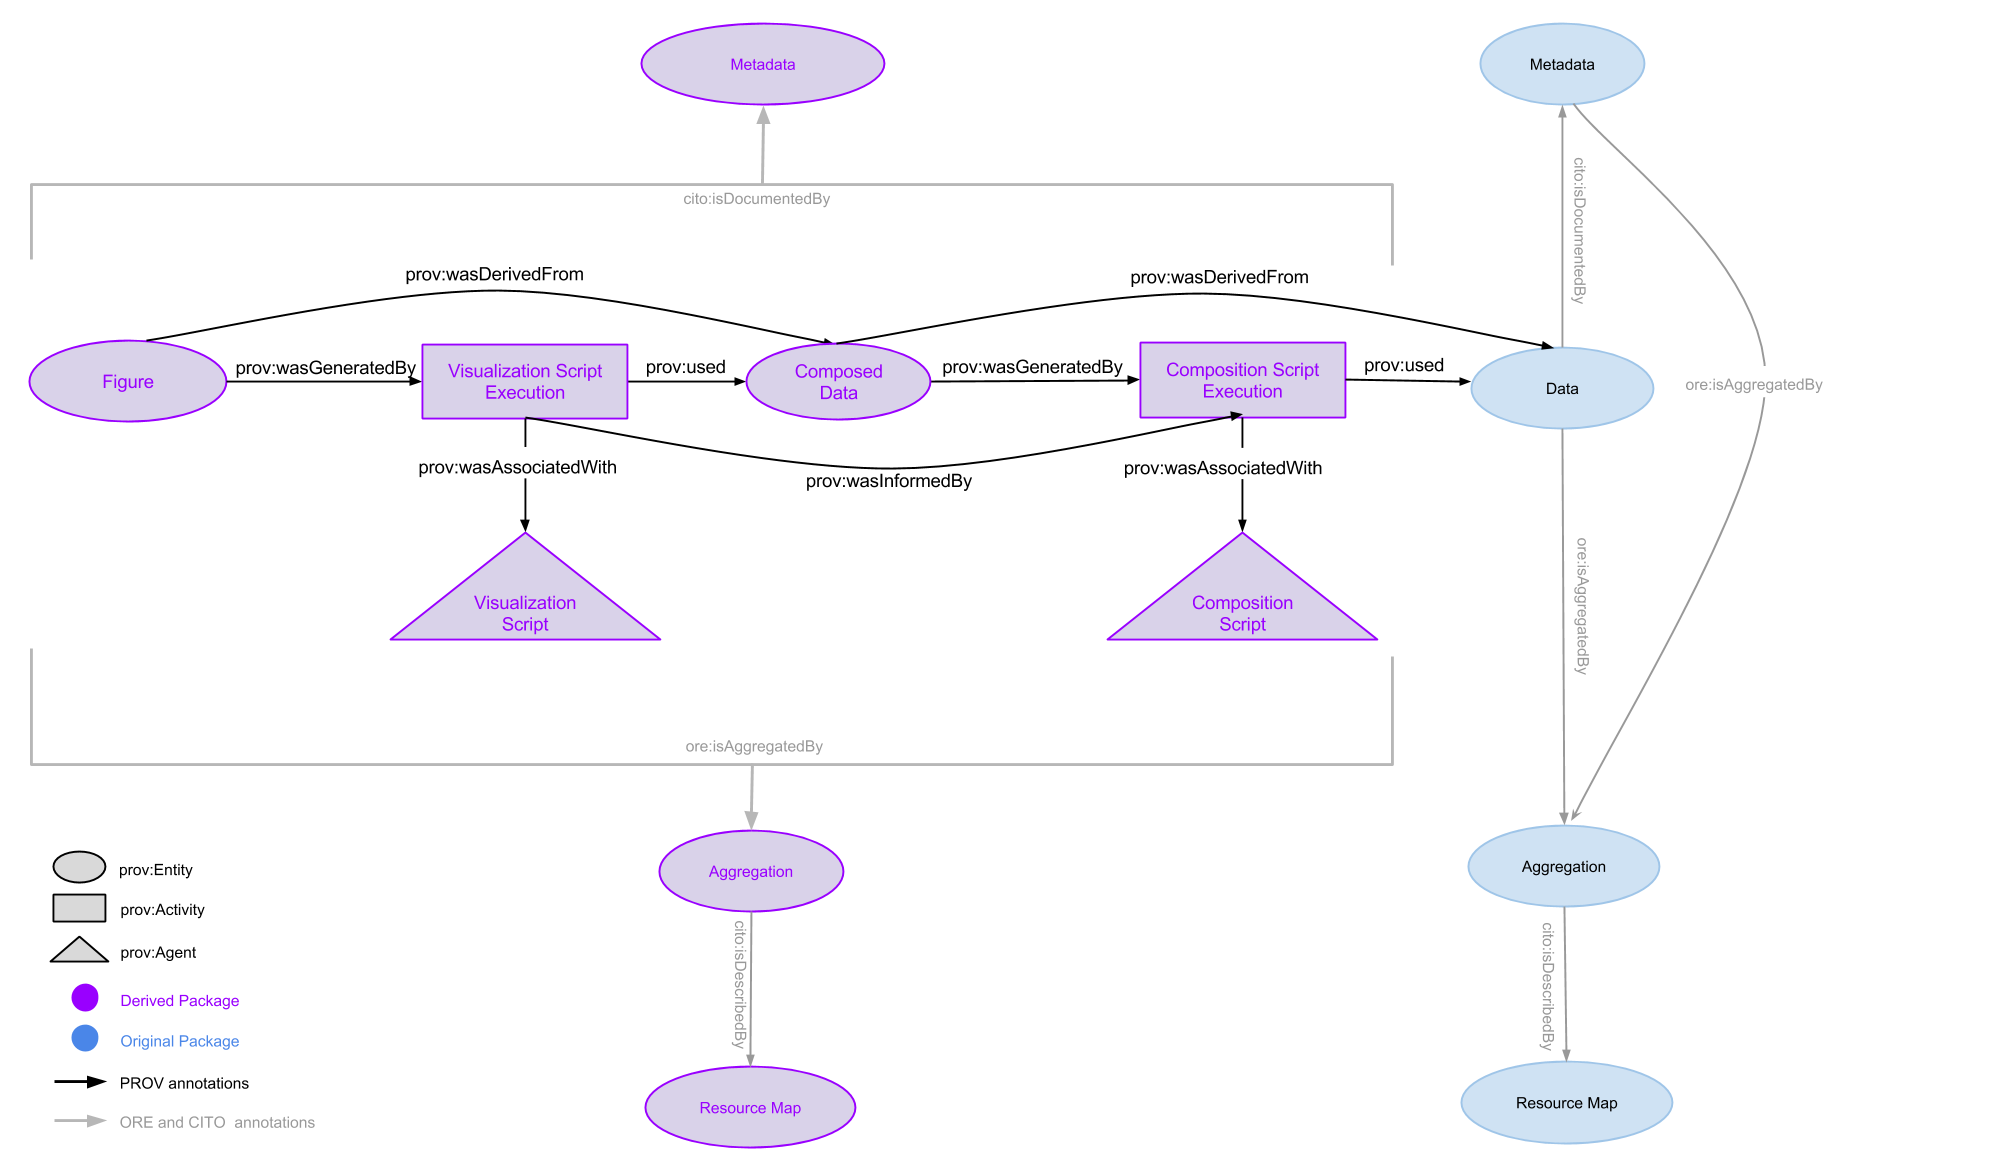
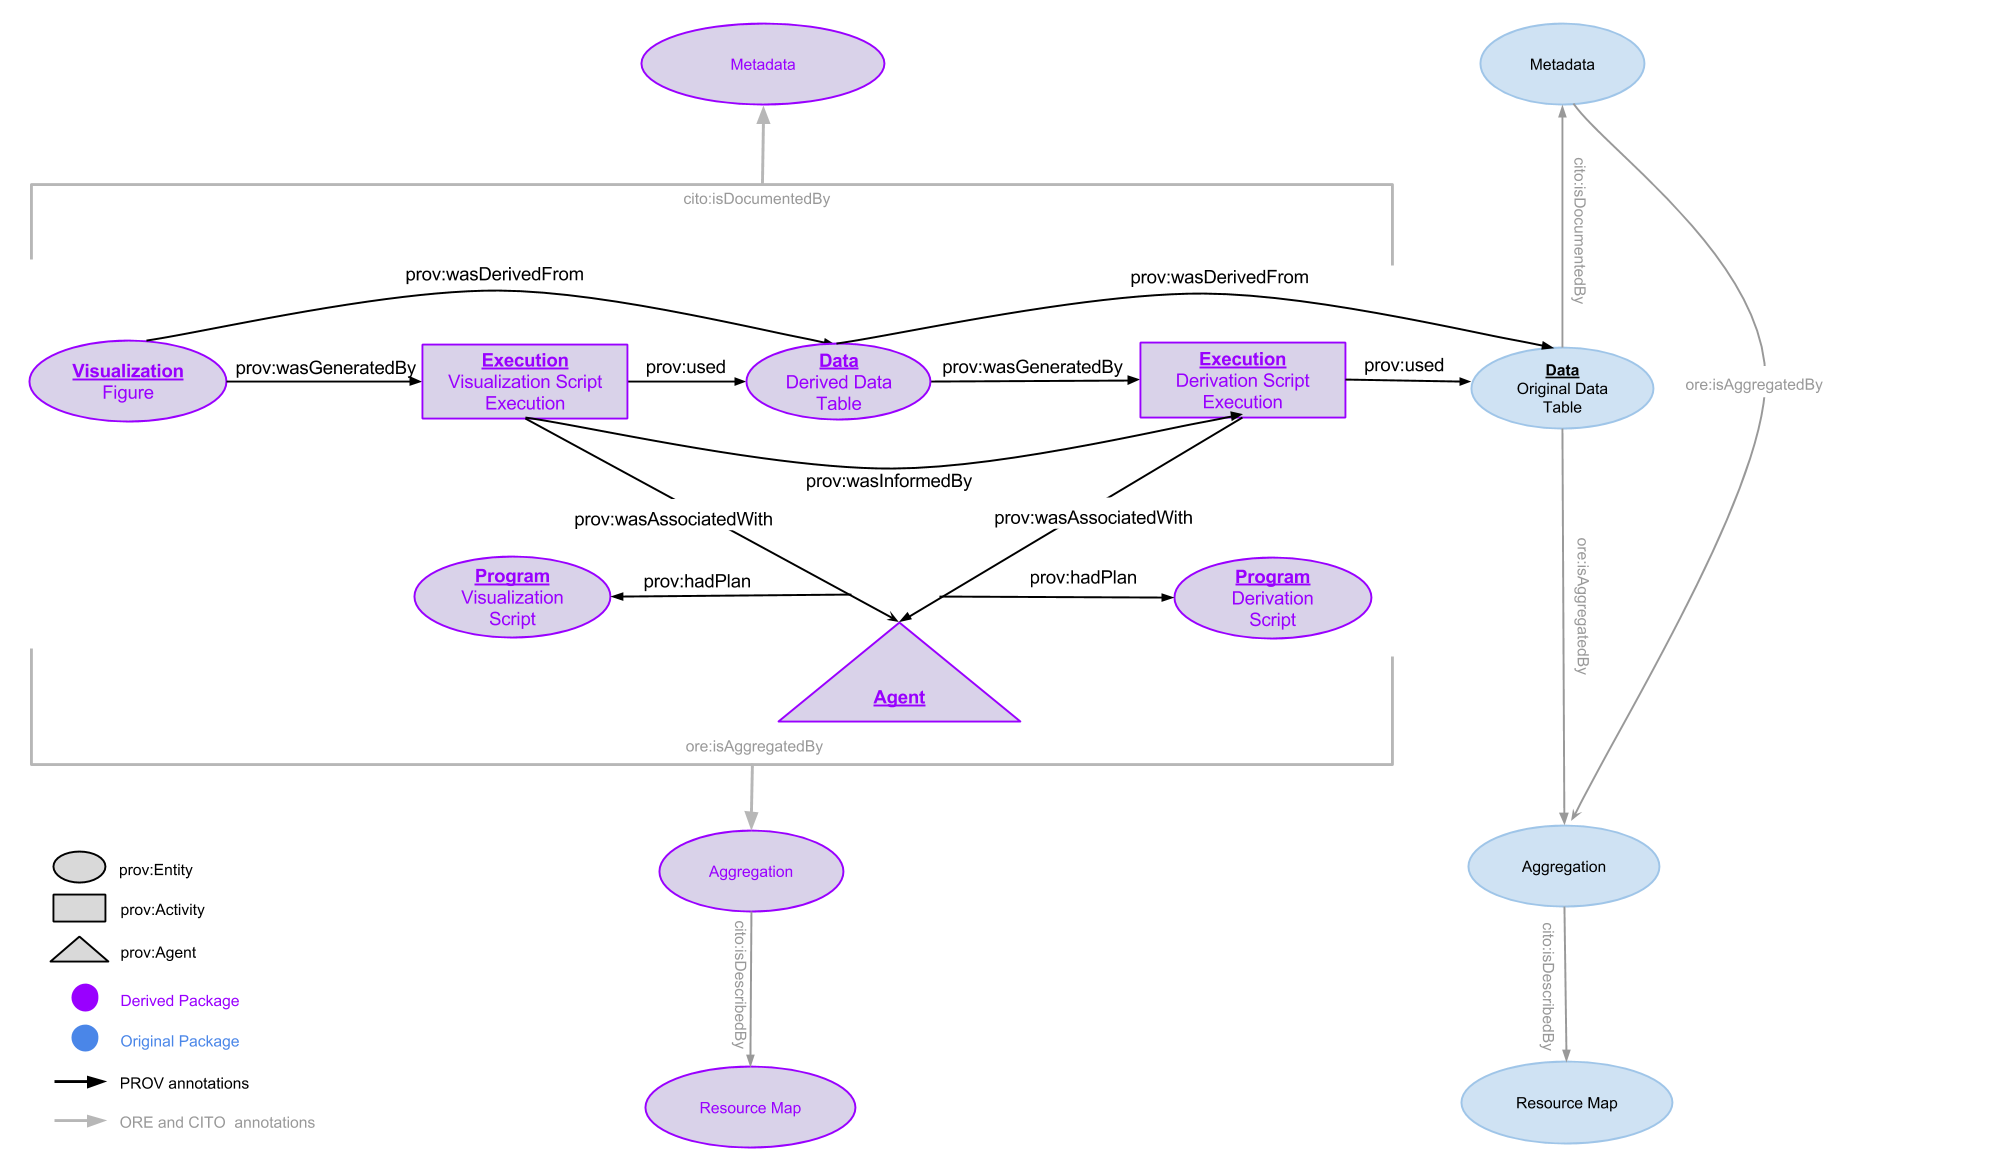
Revised the PROV model document and diagrams to use the prov:hadPlan prov:Association property to point to Programs rather than use the prov:Agent class to point to Programs.

diff --git a/docs/PROV-annotation-model/PROVmodel.md b/docs/PROV-annotation-model/PROVmodel.md
@@ -16,24 +16,33 @@ Definitions
 The DataONE PROV data model will be used to describe the relationships between:
 * Derived resources and the original resources used to create them
 * Data resources and the activities used to create them
-* Programs and the actors that use that program to create a data resource
+* Programs (e.g. software, scripts) that were implemented to create a data resource
 
-This data model borrows heavily from the [W3C PROV Ontology and Data Model](http://www.w3.org/TR/prov-o/) to define classes of objects and the relationships between them. 
+This data model uses the [W3C PROV Ontology and Data Model](http://www.w3.org/TR/prov-o/) to define classes of objects and the relationships between them. 
 
-### Three classes of objects are used in PROV-O and the DataONE PROV model:
+### Two classes and one subclass of objects are used in the DataONE PROV model:
 * [Entity](http://www.w3.org/TR/2013/REC-prov-o-20130430/#Entity)
-	+ PROV-O definition: An entity is a physical, digital, conceptual, or other kind of thing with some fixed aspects; entities may be real or imaginary.
-	+ DataONE: An entity is a [DataONE object](http://mule1.dataone.org/ArchitectureDocs-current/overview.html), such as a data table, or scientific metadata.
+	* PROV-O definition: An entity is a physical, digital, conceptual, or other kind of thing with some fixed aspects; entities may be real or imaginary.
+	* DataONE: An entity is a [DataONE object](http://mule1.dataone.org/ArchitectureDocs-current/overview.html), such as a data table, or scientific metadata.
+	* **Subclass** [Plan](http://www.w3.org/TR/2013/REC-prov-o-20130430/#Plan)
+		* PROV-O definition: A plan is an entity that represents a set of actions or steps intended by one or more agents to achieve some goals.
+			* Note from PROV-O:
+				> Since plans may evolve over time, it may become necessary to track their provenance, so plans themselves are entities. Representing the plan explicitly in the provenance can be useful for various tasks: for example, to validate the execution as represented in the provenance record, to manage expectation failures, or to provide explanations.
+		* DataONE: A plan would most likely be a program, such as a script or code file.
 * [Activity](http://www.w3.org/TR/2013/REC-prov-o-20130430/#Activity)
-	+ PROV-O definition: An activity is something that occurs over a period of time and acts upon or with entities; it may include consuming, processing, transforming, modifying, relocating, using, or generating entities.
-	+ DataONE: An activity represents a program execution and is stored as data about that execution.
-* [Agent](http://www.w3.org/TR/2013/REC-prov-o-20130430/#Agent)
-	+ PROV-O definition: An agent is something that bears some form of responsibility for an activity taking place, for the existence of an entity, or for another agent's activity.
-	+ DataONE: An agent is the program itself, such as a script file.
+	* PROV-O definition: An activity is something that occurs over a period of time and acts upon or with entities; it may include consuming, processing, transforming, modifying, relocating, using, or generating entities.
+	* DataONE: An activity represents a program execution and is stored as data about that execution.
 	
+	
+**Note about [Agent](http://www.w3.org/TR/2013/REC-prov-o-20130430/#Agent): ** 
+	* DataONE may not capture information about agents during the first phase of the semantics and provenance work, but it is one of the major classes of the PROV-O ontology.
+	* PROV-O definition: An agent is something that bears some form of responsibility for an activity taking place, for the existence of an entity, or for another agent's activity.
+
+		
 ### The terms from the PROV ontology that will be used:
-   * [wasGeneratedBy] (http://www.w3.org/ns/prov#wasGeneratedBy) : Generation is the completion of production of a new entity by an activity. This entity did not exist before generation and becomes available for usage after this generation.
-   * [wasDerivedFrom] (http://www.w3.org/ns/prov#wasDerivedFrom) : A derivation is a transformation of an entity into another, an update of an entity resulting in a new one, or the construction of a new entity based on a pre-existing entity.
-   * [used] (http://www.w3.org/ns/prov#used) : Usage is the beginning of utilizing an entity by an activity. Before usage, the activity had not begun to utilize this entity and could not have been affected by the entity.
-   * [wasInformedBy] (http://www.w3.org/ns/prov#wasInformedBy) : Communication is the exchange of an entity by two activities, one activity using the entity generated by the other.
-   * [wasAttributedTo] (http://www.w3.org/ns/prov#wasAttributedTo) : Attribution is the ascribing of an entity to an agent.
+   * [prov:wasGeneratedBy] (http://www.w3.org/ns/prov#wasGeneratedBy) : Generation is the completion of production of a new entity by an activity. This entity did not exist before generation and becomes available for usage after this generation.
+   * [prov:wasDerivedFrom] (http://www.w3.org/ns/prov#wasDerivedFrom) : A derivation is a transformation of an entity into another, an update of an entity resulting in a new one, or the construction of a new entity based on a pre-existing entity.
+   * [prov:used] (http://www.w3.org/ns/prov#used) : Usage is the beginning of utilizing an entity by an activity. Before usage, the activity had not begun to utilize this entity and could not have been affected by the entity.
+   * [prov:wasInformedBy] (http://www.w3.org/ns/prov#wasInformedBy) : Communication is the exchange of an entity by two activities, one activity using the entity generated by the other.
+   * [prov:wasAssociatedWith] (http://www.w3.org/ns/prov#wasAssociatedWith) : Attribution is the ascribing of an entity to an agent. prov:wasAssociatedWith is qualified by a [prov:Association](http://www.w3.org/TR/prov-dm/#term-Association). An association must have at least one property: an id, an agent, a plan, or attributes. The DataONE PROV data model will include plans but will not include agents at this time.
+   * [prov:hadPlan](http://www.w3.org/ns/prov#hadPlan) : hadPlan is a property of an Association (e.g. prov:wasAssociatedWith) that points to the prov:Plan implemented by a prov:Activity.
